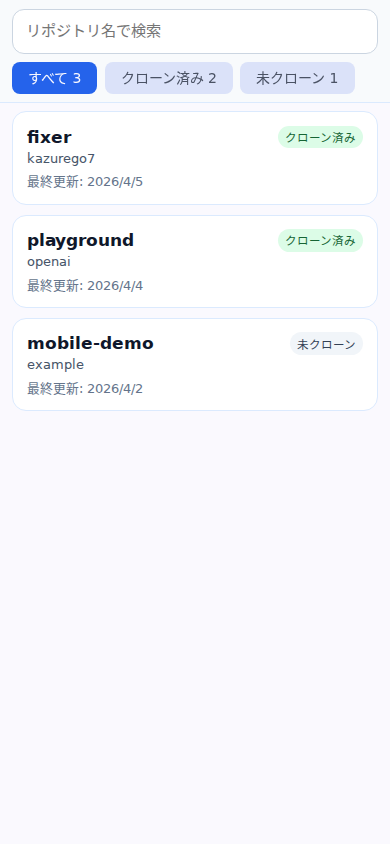
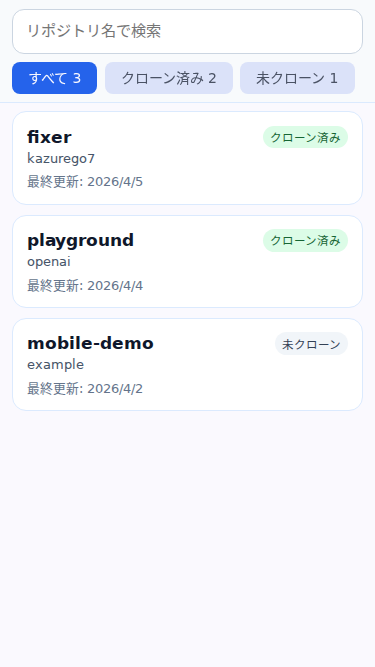
README の利用イメージを更新

diff --git a/e2e/readme-images.spec.ts b/e2e/readme-images.spec.ts
@@ -1,0 +1,170 @@
+import { expect, test } from '@playwright/test';
+import { E2E_MOBILE_VIEWPORT, bootstrapChatState, installApiMocks, saveVisualScreenshot } from './helpers';
+
+test('README 用の画面イメージを出力する', async ({ page }, testInfo) => {
+  await installApiMocks(page);
+  await page.setViewportSize(E2E_MOBILE_VIEWPORT);
+
+  await page.unroute('**/api/github/repos**');
+  await page.route('**/api/github/repos**', async (route) => {
+    await route.fulfill({
+      status: 200,
+      contentType: 'application/json',
+      body: JSON.stringify({
+        repos: [
+          {
+            id: 1,
+            fullName: 'kazurego7/fixer',
+            cloneUrl: 'https://github.com/kazurego7/fixer.git',
+            updatedAt: '2026-04-05T08:00:00.000Z',
+            cloneState: { status: 'cloned' }
+          },
+          {
+            id: 2,
+            fullName: 'openai/playground',
+            cloneUrl: 'https://github.com/openai/playground.git',
+            updatedAt: '2026-04-04T08:00:00.000Z',
+            cloneState: { status: 'cloned' }
+          },
+          {
+            id: 3,
+            fullName: 'example/mobile-demo',
+            cloneUrl: 'https://github.com/example/mobile-demo.git',
+            updatedAt: '2026-04-02T08:00:00.000Z',
+            cloneState: { status: 'not_cloned' }
+          }
+        ]
+      })
+    });
+  });
+
+  await page.goto('/repos/');
+  await expect(page.getByPlaceholder('リポジトリ名で検索')).toBeVisible();
+  await expect(page.getByText('fixer')).toBeVisible();
+  await expect(page.getByText('mobile-demo')).toBeVisible();
+  await saveVisualScreenshot(page, testInfo, 'readme-repos.png', {
+    attachmentName: 'readme-repos'
+  });
+
+  await bootstrapChatState(page, 'kazurego7/fixer', 'thread-readme-chat');
+
+  await page.unroute('**/api/threads/messages**');
+  await page.route('**/api/threads/messages**', async (route) => {
+    await route.fulfill({
+      status: 200,
+      contentType: 'application/json',
+      body: JSON.stringify({ items: [] })
+    });
+  });
+
+  await page.unroute('**/api/repos/git-status**');
+  await page.route('**/api/repos/git-status**', async (route) => {
+    await route.fulfill({
+      status: 200,
+      contentType: 'application/json',
+      body: JSON.stringify({
+        repoFullName: 'kazurego7/fixer',
+        repoPath: '/tmp/kazurego7__fixer',
+        branch: 'main',
+        upstream: 'origin/main',
+        ahead: 0,
+        behind: 0,
+        stagedCount: 0,
+        unstagedCount: 1,
+        untrackedCount: 0,
+        conflictedCount: 0,
+        hasChanges: true,
+        actionRecommended: true,
+        tone: 'warning',
+        summary: '変更あり: 未反映 1'
+      })
+    });
+  });
+
+  await page.unroute('**/api/turns/stream');
+  await page.route('**/api/turns/stream', async (route) => {
+    await new Promise((resolve) => setTimeout(resolve, 5000));
+    const ndjson = [JSON.stringify({ type: 'started', turnId: 'turn-readme-stream-1' }), JSON.stringify({ type: 'done' })].join('\n') + '\n';
+    await route.fulfill({
+      status: 200,
+      headers: { 'content-type': 'application/x-ndjson; charset=utf-8' },
+      body: ndjson
+    });
+  });
+
+  await page.unroute('**/api/turns/running**');
+  await page.route('**/api/turns/running**', async (route) => {
+    await route.fulfill({
+      status: 200,
+      contentType: 'application/json',
+      body: JSON.stringify({
+        running: true,
+        threadId: 'thread-readme-chat',
+        turnId: 'turn-readme-running-1'
+      })
+    });
+  });
+
+  await page.unroute('**/api/turns/live-state**');
+  await page.route('**/api/turns/live-state**', async (route) => {
+    await route.fulfill({
+      status: 200,
+      contentType: 'application/json',
+      body: JSON.stringify({
+        running: true,
+        threadId: 'thread-readme-chat',
+        turnId: 'turn-readme-running-1',
+        seq: 0,
+        liveReasoningText: '',
+        items: [
+          {
+            id: 'turn-readme-running-1:user:0',
+            role: 'user',
+            type: 'plain',
+            text: 'このアプリの紹介文をわかりやすく直して'
+          },
+          {
+            id: 'turn-readme-running-1:assistant:0',
+            role: 'assistant',
+            type: 'markdown',
+            text: [
+              'README.md の紹介文を確認します。',
+              '',
+              'いまの説明は目的は伝わりますが、「何ができるか」と「どう使い始めるか」が少し見えにくいです。',
+              'まずは、スマホから使えることと、GitHub のリポジトリを選んでそのまま作業に入れることが先に伝わる書き方にすると分かりやすくなります。',
+              'たとえば、Fixer は'
+            ].join('\n'),
+            answer: [
+              'README.md の紹介文を確認します。',
+              '',
+              'いまの説明は目的は伝わりますが、「何ができるか」と「どう使い始めるか」が少し見えにくいです。',
+              'まずは、スマホから使えることと、GitHub のリポジトリを選んでそのまま作業に入れることが先に伝わる書き方にすると分かりやすくなります。',
+              'たとえば、Fixer は'
+            ].join('\n'),
+            plan: ''
+          }
+        ]
+      })
+    });
+  });
+
+  await page.route('**/api/turns/stream/resume**', async () => {
+    await new Promise((resolve) => setTimeout(resolve, 10000));
+  });
+
+  await page.goto('/chat/');
+  await expect(page.getByText('README.md の紹介文を確認します。').first()).toBeVisible();
+  await expect(page.getByTestId('stop-button')).toBeVisible();
+
+  await saveVisualScreenshot(page, testInfo, 'readme-chat-streaming.png', {
+    attachmentName: 'readme-chat-streaming'
+  });
+
+  const composer = page.getByTestId('composer-textarea');
+  await composer.fill('返答中でも追加で指示できることも入れて');
+  await expect(page.getByTestId('followup-button')).toBeVisible();
+
+  await saveVisualScreenshot(page, testInfo, 'readme-chat-followup.png', {
+    attachmentName: 'readme-chat-followup'
+  });
+});
